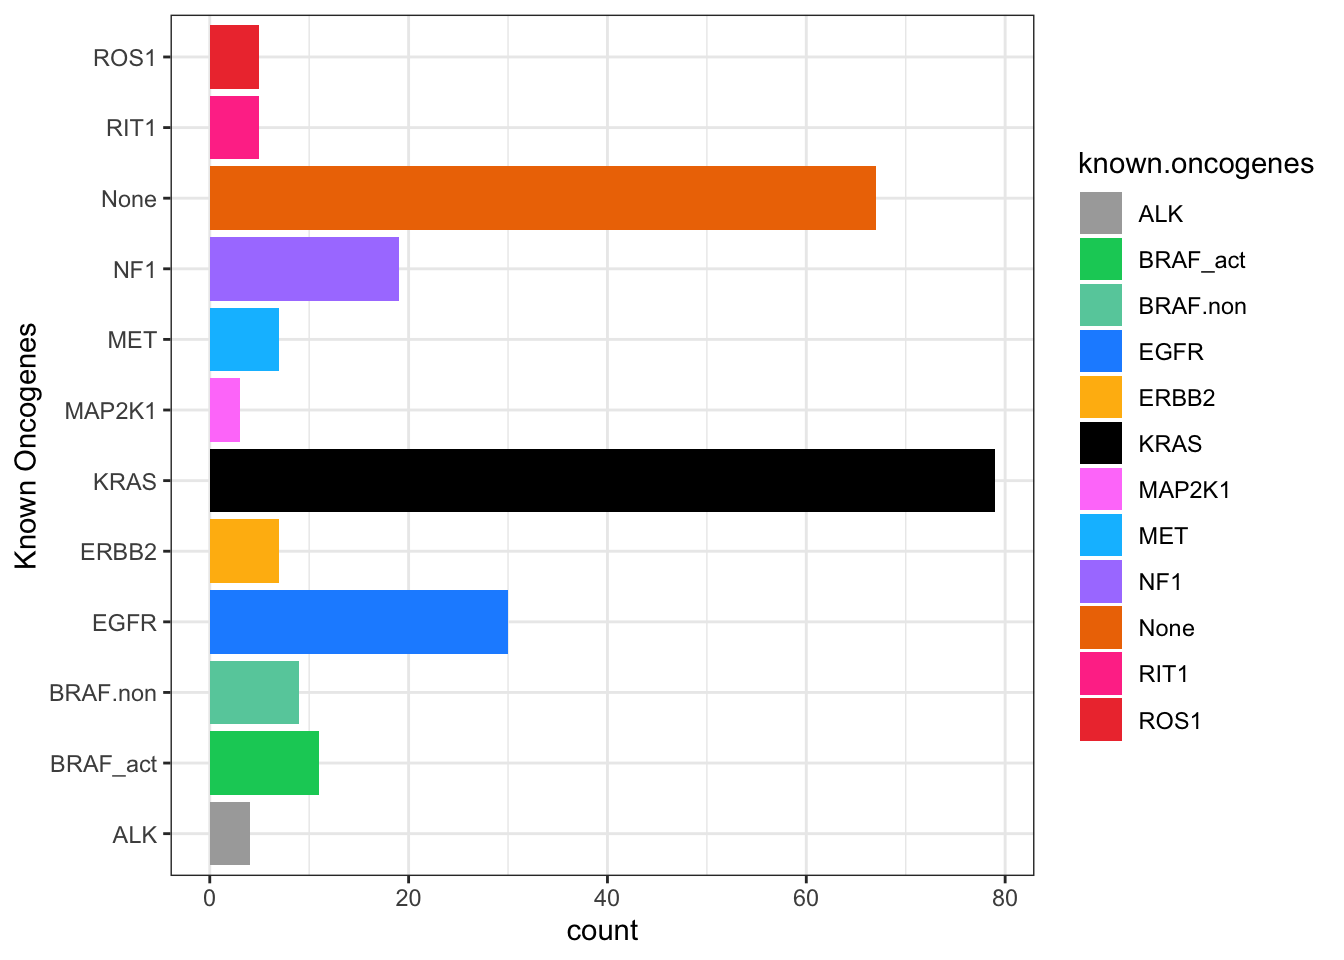
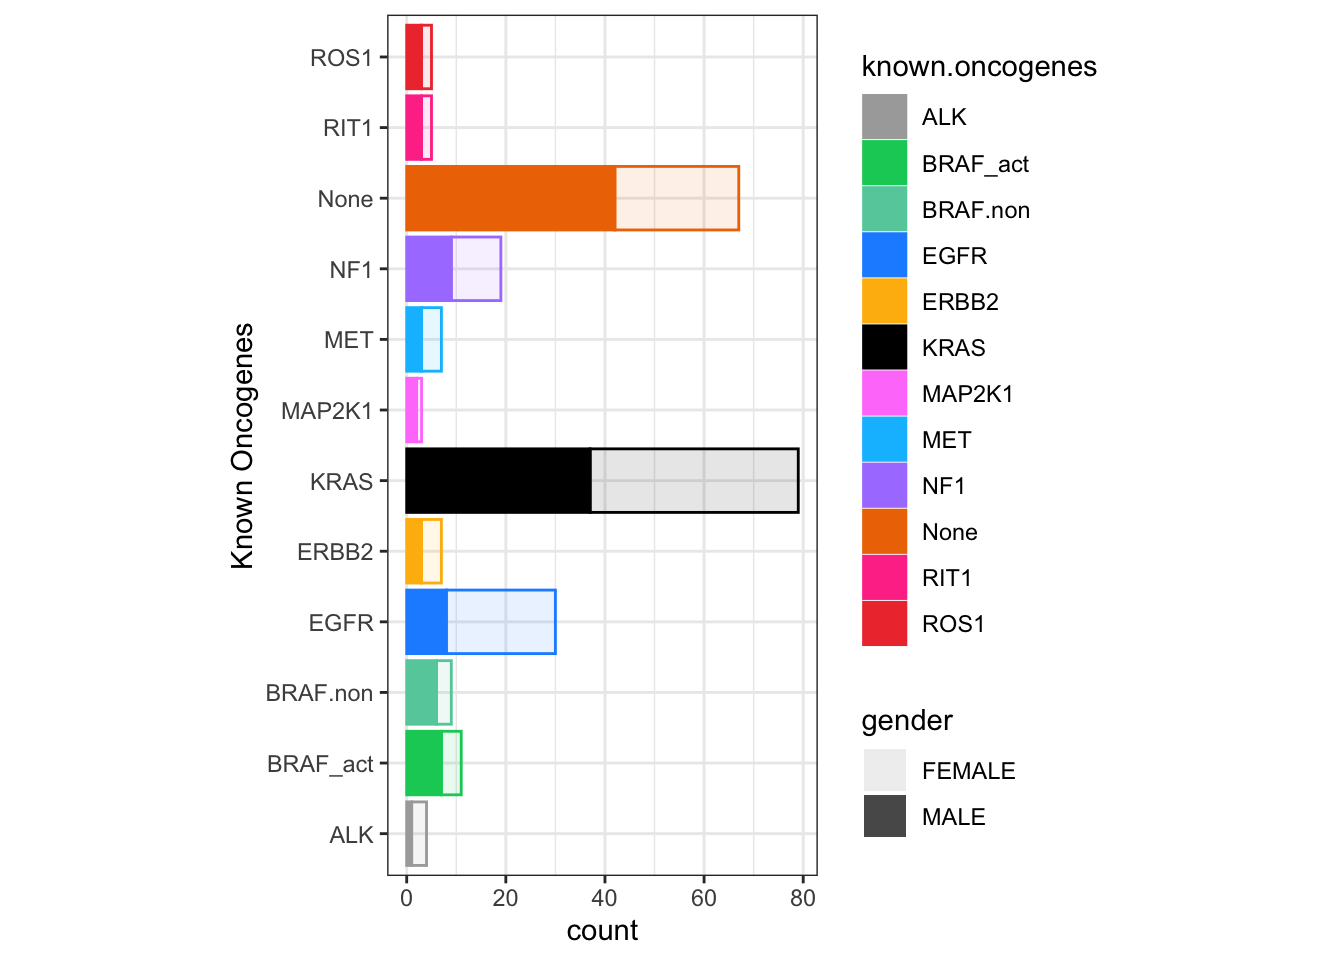
barplot

diff --git a/tuto_ggplot2.html b/tuto_ggplot2.html
@@ -497,7 +497,7 @@ Key words to write on your favorite browser
 <li>Add another geometric shape: points</li>
 </ol>
 <p>This task consist of <strong>adding a new layer</strong> containing the points colored by known oncogenes. Which function should we use ? Note that there are two answers but one is more suitable for boxplot as it is adding some random noise to the positions in order to avoid overlaps.</p>
-<p>&lt;details&gt;</p>
+<details>
 <summary>
 Key words to write on your favorite browser
 </summary>
@@ -505,7 +505,7 @@ Key words to write on your favorite browser
 <li><code>R ggplot2 point</code></li>
 <li><code>R ggplot2 point boxplot</code></li>
 </ul>
-
+</details>
 <p><strong><em>Option 1</em></strong></p>
 <div class="cell">
 <details>
@@ -556,47 +556,28 @@ Key words to write on your favorite browser
 <p><img src="tuto_ggplot2_files/figure-html/unnamed-chunk-21-1.png" class="img-fluid" width="672"></p>
 </div>
 </div>
-<ol start="9" type="1">
-<li>Change boxplots for violin plots</li>
-</ol>
-<p>Search for the good geometric function.</p>
-<div class="cell">
-<details>
-<summary>Code</summary>
-<div class="sourceCode cell-code" id="cb29"><pre class="sourceCode r code-with-copy"><code class="sourceCode r"><span id="cb29-1"><a href="#cb29-1" aria-hidden="true" tabindex="-1"></a><span class="fu">ggplot</span>(<span class="at">data =</span> clinical, <span class="fu">aes</span>(<span class="at">x=</span>known.oncogenes, <span class="at">y=</span>signature_MAPK)) <span class="sc">+</span></span>
-<span id="cb29-2"><a href="#cb29-2" aria-hidden="true" tabindex="-1"></a>  <span class="fu">geom_violin</span>(<span class="fu">aes</span>(<span class="at">color=</span>known.oncogenes)) <span class="sc">+</span> </span>
-<span id="cb29-3"><a href="#cb29-3" aria-hidden="true" tabindex="-1"></a>  <span class="fu">labs</span>(<span class="at">x=</span><span class="st">"Known Oncogenes"</span>, <span class="at">y=</span><span class="st">"MAPK activity signature"</span>) <span class="sc">+</span></span>
-<span id="cb29-4"><a href="#cb29-4" aria-hidden="true" tabindex="-1"></a>  <span class="fu">theme_bw</span>() <span class="sc">+</span></span>
-<span id="cb29-5"><a href="#cb29-5" aria-hidden="true" tabindex="-1"></a>  <span class="fu">scale_colour_manual</span>(<span class="at">values=</span>palette.known.onco) <span class="sc">+</span></span>
-<span id="cb29-6"><a href="#cb29-6" aria-hidden="true" tabindex="-1"></a>  <span class="fu">coord_flip</span>() <span class="sc">+</span></span>
-<span id="cb29-7"><a href="#cb29-7" aria-hidden="true" tabindex="-1"></a>  <span class="fu">geom_jitter</span>(<span class="fu">aes</span>(<span class="at">color=</span>known.oncogenes, <span class="at">size=</span>Purity), <span class="at">shape=</span><span class="dv">17</span>, <span class="at">alpha=</span><span class="fl">0.5</span>)</span></code><button title="Copy to Clipboard" class="code-copy-button"><i class="bi"></i></button></pre></div>
-</details>
-<div class="cell-output-display">
-<p><img src="tuto_ggplot2_files/figure-html/unnamed-chunk-22-1.png" class="img-fluid" width="672"></p>
-</div>
-</div>
 </section>
 <section id="create-a-density-plot" class="level2">
 <h2 class="anchored" data-anchor-id="create-a-density-plot">Create a density plot</h2>
-<p>Your goal is to produce the following plot showing the <strong>density distributions</strong> of the MAPK signature in function of the known oncogenes (use <code>palette.known.onco</code>). Here we introduce the customization of the plot dimensions, we want to force the plot to have be x-axis 2 times longer than the y-axis which we call the <strong>aspect ratio</strong>. Thanks to it, you can force to have squared plots for instance.</p>
+<p>Your goal is to produce the following density plot showing the <strong>density distributions</strong> of the MAPK signature in function of the known oncogenes (use <code>palette.known.onco</code>). Here we introduce the customization of the plot dimensions, we want to force the plot to have be x-axis 2 times longer than the y-axis which we call the <strong>aspect ratio</strong>. Thanks to it, you can force to have squared plots for instance.</p>
 <div class="cell">
 <div class="cell-output-display">
-<p><img src="tuto_ggplot2_files/figure-html/unnamed-chunk-23-1.png" class="img-fluid" width="672"></p>
+<p><img src="tuto_ggplot2_files/figure-html/unnamed-chunk-22-1.png" class="img-fluid" width="672"></p>
 </div>
 </div>
 <ol type="1">
 <li>Identify what contain the axis.</li>
 </ol>
-<p>&lt;details&gt;</p>
+<details>
 <summary>
 Answer
 </summary>
 <p>The x-axis contains the value of the column <code>signature_MAPK</code> and the y-axis indicates the density of the distribution, the y-axis do not need to be specified.</p>
-
+</details>
 <ol start="2" type="1">
 <li>Make a list of the aesthetics you need to modify and layers that need to be added.</li>
 </ol>
-<p>&lt;details&gt;</p>
+<details>
 <summary>
 Answer
 </summary>
@@ -604,35 +585,67 @@ Answer
 <li><p>layers: the geometric shape, label of the x-axis, theme background, theme aspect ratio, custom color palette</p></li>
 <li><p>aesthetics: x-axis , color of the lines</p></li>
 </ul>
-
+</details>
 <ol start="3" type="1">
 <li>Write your code ! (Do not forget your best friend: the Web)</li>
 </ol>
 <div class="cell">
 <details>
 <summary>Code</summary>
-<div class="sourceCode cell-code" id="cb30"><pre class="sourceCode r code-with-copy"><code class="sourceCode r"><span id="cb30-1"><a href="#cb30-1" aria-hidden="true" tabindex="-1"></a><span class="fu">ggplot</span>(<span class="at">data =</span> clinical, <span class="fu">aes</span>(<span class="at">x=</span>signature_MAPK)) <span class="sc">+</span></span>
-<span id="cb30-2"><a href="#cb30-2" aria-hidden="true" tabindex="-1"></a>  <span class="fu">geom_density</span>(<span class="fu">aes</span>(<span class="at">color=</span>known.oncogenes)) <span class="sc">+</span> </span>
-<span id="cb30-3"><a href="#cb30-3" aria-hidden="true" tabindex="-1"></a>  <span class="fu">labs</span>(<span class="at">x=</span><span class="st">"MAPK activity signature"</span>) <span class="sc">+</span></span>
-<span id="cb30-4"><a href="#cb30-4" aria-hidden="true" tabindex="-1"></a>  <span class="fu">theme_bw</span>() <span class="sc">+</span></span>
-<span id="cb30-5"><a href="#cb30-5" aria-hidden="true" tabindex="-1"></a>  <span class="fu">scale_colour_manual</span>(<span class="at">values=</span>palette.known.onco) <span class="sc">+</span></span>
-<span id="cb30-6"><a href="#cb30-6" aria-hidden="true" tabindex="-1"></a>  <span class="fu">theme</span>(<span class="at">aspect.ratio =</span> <span class="dv">1</span><span class="sc">/</span><span class="dv">3</span>)</span></code><button title="Copy to Clipboard" class="code-copy-button"><i class="bi"></i></button></pre></div>
+<div class="sourceCode cell-code" id="cb29"><pre class="sourceCode r code-with-copy"><code class="sourceCode r"><span id="cb29-1"><a href="#cb29-1" aria-hidden="true" tabindex="-1"></a><span class="fu">ggplot</span>(<span class="at">data =</span> clinical, <span class="fu">aes</span>(<span class="at">x=</span>signature_MAPK)) <span class="sc">+</span></span>
+<span id="cb29-2"><a href="#cb29-2" aria-hidden="true" tabindex="-1"></a>  <span class="fu">geom_density</span>(<span class="fu">aes</span>(<span class="at">color=</span>known.oncogenes)) <span class="sc">+</span> </span>
+<span id="cb29-3"><a href="#cb29-3" aria-hidden="true" tabindex="-1"></a>  <span class="fu">labs</span>(<span class="at">x=</span><span class="st">"MAPK activity signature"</span>) <span class="sc">+</span></span>
+<span id="cb29-4"><a href="#cb29-4" aria-hidden="true" tabindex="-1"></a>  <span class="fu">theme_bw</span>() <span class="sc">+</span></span>
+<span id="cb29-5"><a href="#cb29-5" aria-hidden="true" tabindex="-1"></a>  <span class="fu">scale_colour_manual</span>(<span class="at">values=</span>palette.known.onco) <span class="sc">+</span></span>
+<span id="cb29-6"><a href="#cb29-6" aria-hidden="true" tabindex="-1"></a>  <span class="fu">theme</span>(<span class="at">aspect.ratio =</span> <span class="dv">1</span><span class="sc">/</span><span class="dv">3</span>)</span></code><button title="Copy to Clipboard" class="code-copy-button"><i class="bi"></i></button></pre></div>
 </details>
 </div>
 </section>
 <section id="create-a-bar-plot" class="level2">
 <h2 class="anchored" data-anchor-id="create-a-bar-plot">Create a bar plot</h2>
-<p>Your goal is to produce the following plot showing the number of tumor harboring each known oncogene.</p>
+<p>Your goal is to produce the following <strong>bar plot</strong> showing the number of tumor from genders (column <code>gender</code> - play with the <strong>transparency</strong>) harboring each known oncogene. In this case the <strong>aspect ratio</strong> is inverse compared to the previous one.</p>
 <div class="cell">
 <div class="cell-output-display">
-<p><img src="tuto_ggplot2_files/figure-html/unnamed-chunk-25-1.png" class="img-fluid" width="672"></p>
+<p><img src="tuto_ggplot2_files/figure-html/unnamed-chunk-24-1.png" class="img-fluid" width="672"></p>
 </div>
 </div>
 <ol type="1">
-<li><p>Identify what contain the axis.</p></li>
-<li><p>Make a list of the aesthetics you need to modify.</p></li>
-<li><p>Identify the appropriate geometric function.</p></li>
+<li>Identify what contain the axis.</li>
 </ol>
+<details>
+<summary>
+Answer
+</summary>
+<p>The x-axis indicates the number of sample harboring the known oncogene, the x-axis do not need to be specified. The y-axis indicates the known oncogenes. As a reminder, one would prefer to flip the coordinates but it is not mandatory.</p>
+</details>
+<ol start="2" type="1">
+<li>Make a list of the aesthetics you need to modify and layers that need to be added.</li>
+</ol>
+<details>
+<summary>
+Answer
+</summary>
+<ul>
+<li><p>layers: the geometric shape, label of the y-axis, theme background, theme aspect ratio, custom color palette</p></li>
+<li><p>aesthetics: y-axis , color of the lines, fill of the bars, transparency according to gender</p></li>
+</ul>
+</details>
+<ol start="3" type="1">
+<li>Write your code ! (Do not forget your best friend: the Web)</li>
+</ol>
+<div class="cell">
+<details>
+<summary>Code</summary>
+<div class="sourceCode cell-code" id="cb30"><pre class="sourceCode r code-with-copy"><code class="sourceCode r"><span id="cb30-1"><a href="#cb30-1" aria-hidden="true" tabindex="-1"></a><span class="fu">ggplot</span>(<span class="at">data =</span> clinical, <span class="fu">aes</span>(<span class="at">x=</span>known.oncogenes)) <span class="sc">+</span></span>
+<span id="cb30-2"><a href="#cb30-2" aria-hidden="true" tabindex="-1"></a>  <span class="fu">geom_bar</span>(<span class="fu">aes</span>(<span class="at">fill=</span>known.oncogenes, <span class="at">color=</span>known.oncogenes,<span class="at">alpha=</span>gender)) <span class="sc">+</span> </span>
+<span id="cb30-3"><a href="#cb30-3" aria-hidden="true" tabindex="-1"></a>  <span class="fu">labs</span>(<span class="at">x=</span><span class="st">"Known Oncogenes"</span>) <span class="sc">+</span></span>
+<span id="cb30-4"><a href="#cb30-4" aria-hidden="true" tabindex="-1"></a>  <span class="fu">theme_bw</span>() <span class="sc">+</span></span>
+<span id="cb30-5"><a href="#cb30-5" aria-hidden="true" tabindex="-1"></a>  <span class="fu">scale_fill_manual</span>(<span class="at">values=</span>palette.known.onco) <span class="sc">+</span></span>
+<span id="cb30-6"><a href="#cb30-6" aria-hidden="true" tabindex="-1"></a>  <span class="fu">scale_colour_manual</span>(<span class="at">values=</span>palette.known.onco) <span class="sc">+</span></span>
+<span id="cb30-7"><a href="#cb30-7" aria-hidden="true" tabindex="-1"></a>  <span class="fu">coord_flip</span>() <span class="sc">+</span></span>
+<span id="cb30-8"><a href="#cb30-8" aria-hidden="true" tabindex="-1"></a>  <span class="fu">theme</span>(<span class="at">aspect.ratio =</span> <span class="dv">2</span><span class="sc">/</span><span class="dv">1</span>)</span></code><button title="Copy to Clipboard" class="code-copy-button"><i class="bi"></i></button></pre></div>
+</details>
+</div>
 </section>
 <section id="display-expression-data" class="level2">
 <h2 class="anchored" data-anchor-id="display-expression-data">Display expression data</h2>
